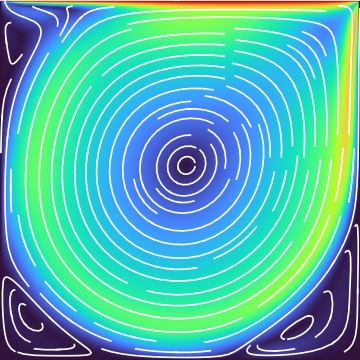
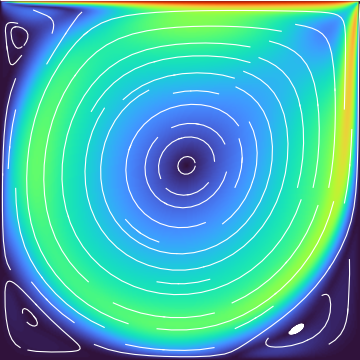
All flow tiles: streamline density 0.8, linewidth 0.4
Apply the same sparser/thinner streamlines (0.8 / 0.4) to the LDC tiles as NACA; simplifies the streamplot call to uniform params.

Changed region(s): [[0.0, 0.0, 1.0, 1.0], [0.0, 0.0, 0.0306, 0.0306]]

diff --git a/index.html b/index.html
@@ -190,7 +190,7 @@
             <span class="stat"><span class="k">Best rRMSE</span><span class="v good">0.04112</span></span>
           </div>
         </div>
-        <div class="thumb"><img src="./ldc-re3200/field.png?v=3a780446" alt="Lid-Driven Cavity reference solution field" loading="lazy"></div>
+        <div class="thumb"><img src="./ldc-re3200/field.png?v=5c5708ff" alt="Lid-Driven Cavity reference solution field" loading="lazy"></div>
       </a>
 
       <a class="card" href="./ldc-re3200-extended/index.html">
@@ -209,7 +209,7 @@
             <span class="stat"><span class="k">Best rRMSE</span><span class="v good">0.07716</span></span>
           </div>
         </div>
-        <div class="thumb"><img src="./ldc-re3200-extended/field.png?v=3a780446" alt="Lid-Driven Cavity reference solution field" loading="lazy"></div>
+        <div class="thumb"><img src="./ldc-re3200-extended/field.png?v=5c5708ff" alt="Lid-Driven Cavity reference solution field" loading="lazy"></div>
       </a>
 
       <a class="card" href="./ldc-re5000/index.html">
@@ -228,7 +228,7 @@
             <span class="stat"><span class="k">Best rRMSE</span><span class="v good">0.07501</span></span>
           </div>
         </div>
-        <div class="thumb"><img src="./ldc-re5000/field.png?v=fe5a1f77" alt="Lid-Driven Cavity reference solution field" loading="lazy"></div>
+        <div class="thumb"><img src="./ldc-re5000/field.png?v=35c6fe54" alt="Lid-Driven Cavity reference solution field" loading="lazy"></div>
       </a>
 
       <a class="card wide" href="./naca0012/index.html">